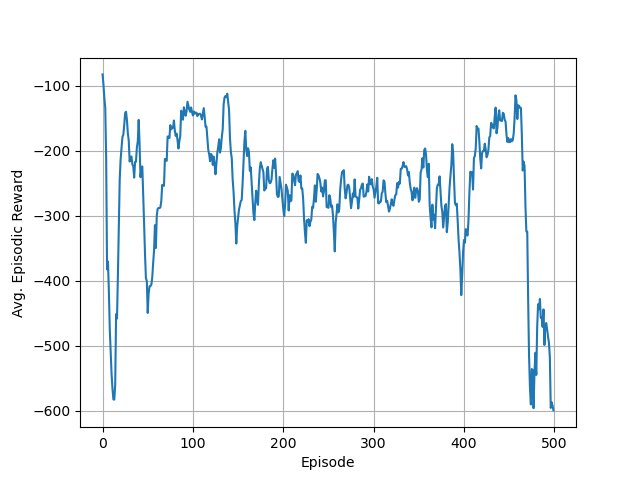
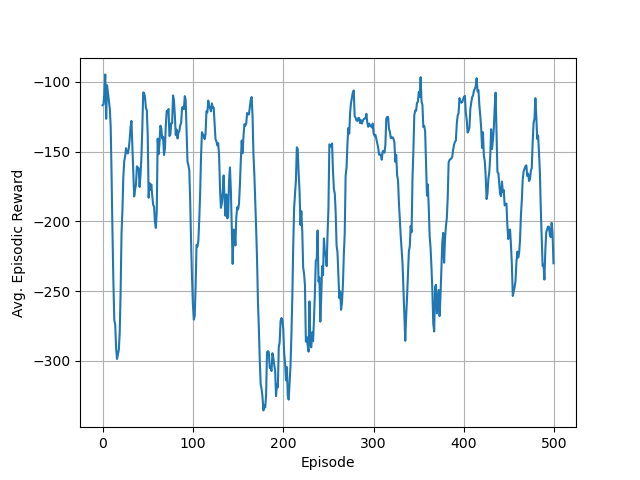
readme fix

diff --git a/ddpg.py b/ddpg.py
@@ -14,7 +14,7 @@ batch_norm = True
 gradient_clipping = False
 use_action_noise = True
 use_param_noise = not use_action_noise
-use_linear_epsilon_decay = True
+use_linear_epsilon_decay = False
 use_exponential_epsilon_decay = not use_linear_epsilon_decay
 #to use hyperparameters from automated tuning
 
@@ -67,7 +67,7 @@ elif problem == 'LunarLanderContinuous-v2':
     noise_stddev = 0.2
     target_noise_stddev = 0.1
     hidden_layers_shape = (400,300)
-    linear_epsilon_decay = 0.003
+    linear_epsilon_decay = 0.004
     exponential_epsilon_decay = 0.99
     min_epsilon = 0.01
 else:

diff --git a/README.md b/README.md
@@ -134,6 +134,6 @@ Final score in this experiment is irrevant as the algorithm was unstable. Hyperp
 ![Alt text](/images/ddpg_car_best_so_far.png?raw=true "DDPG MountainCarContinuous")
 
 ## TASK 4: Lunar Lander Continuous
-DDPG can be used to solve this enviroment as well, but I have not tested it yet.
+Currently working on this, stay tuned.
 
 
